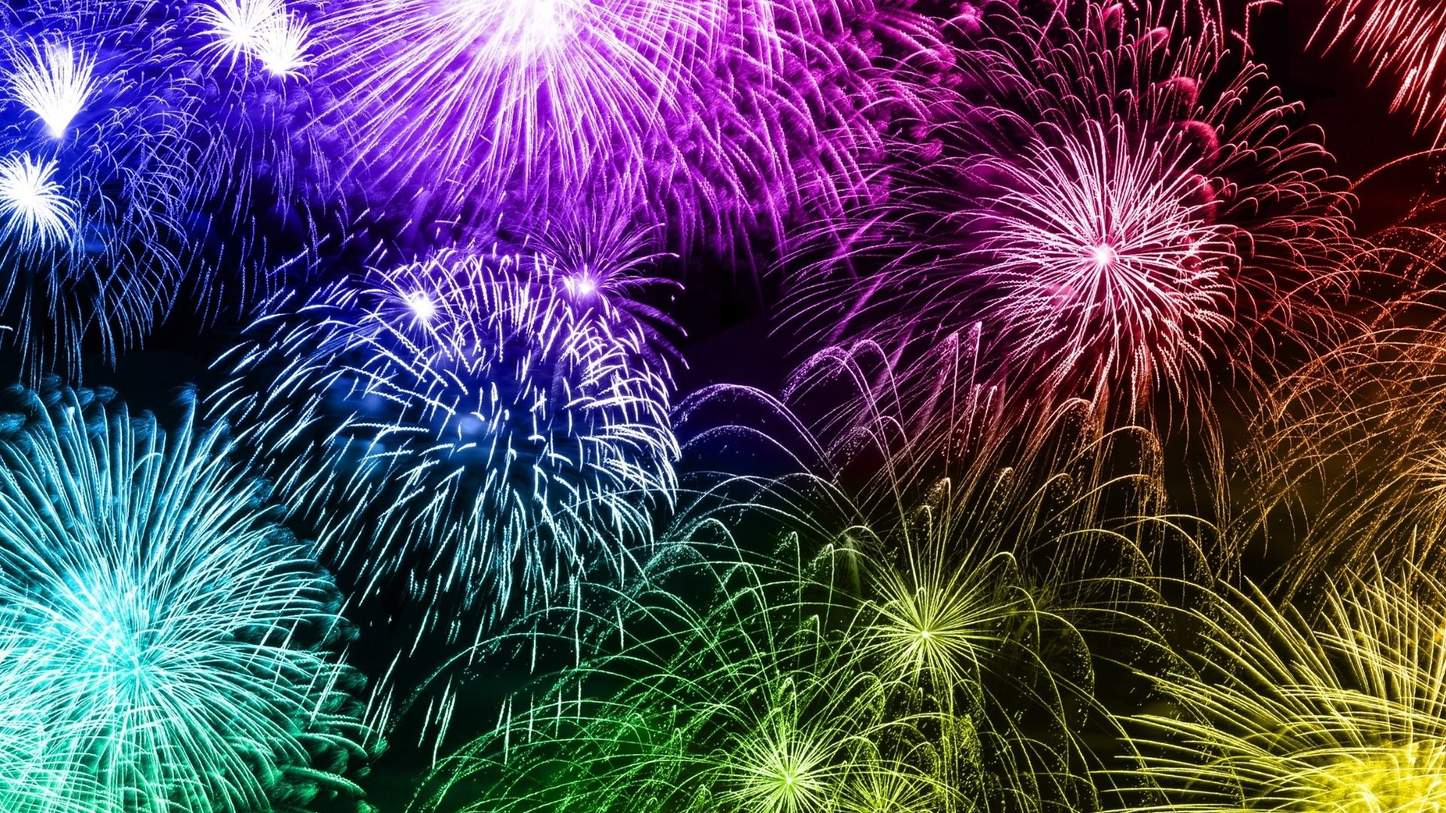
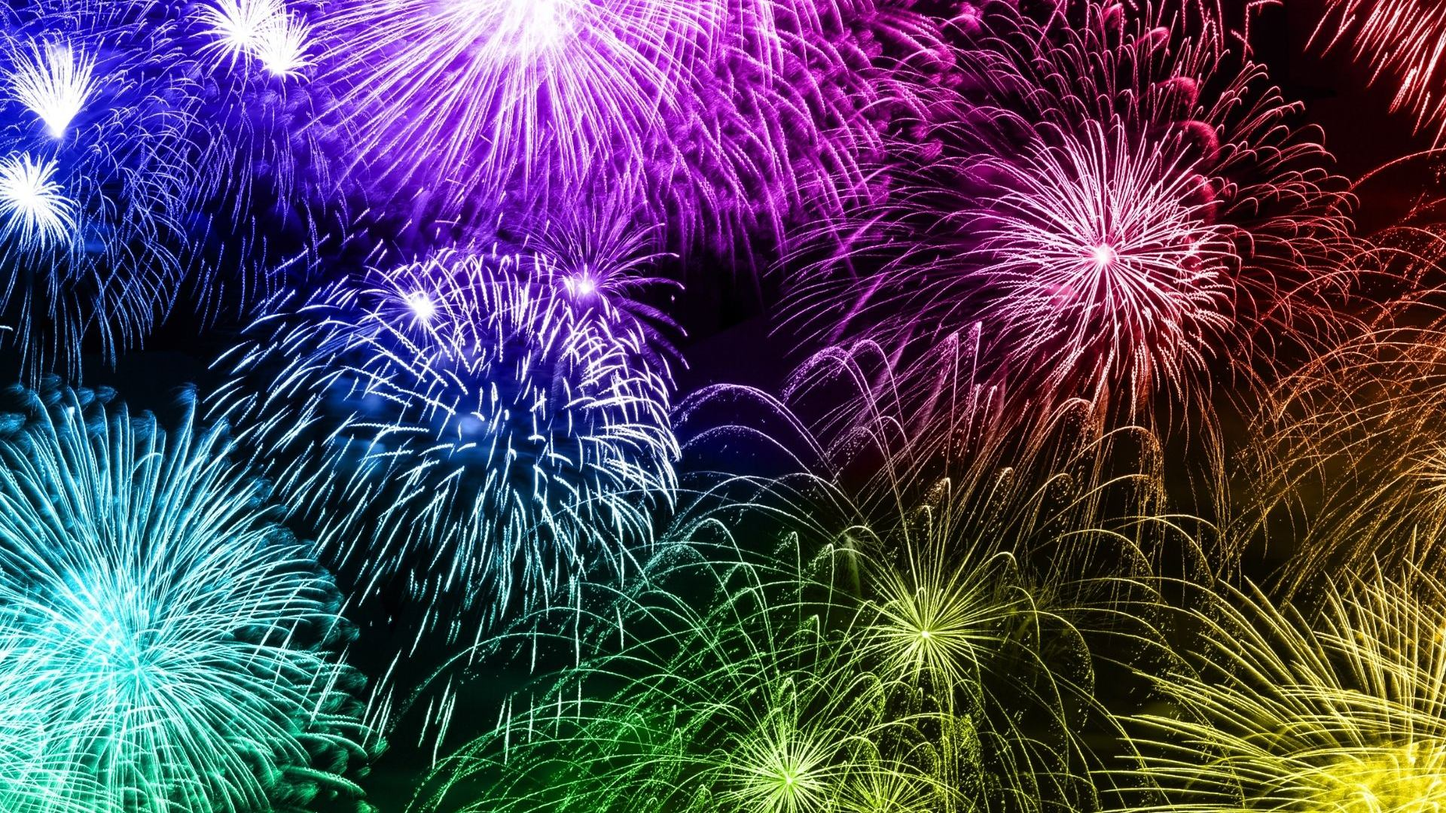
Alltagstipps-Bilder: Thumbnails für Kacheln, Hero-Rekompression
Problem: Hub-Page hat 7 Heroes geladen (=2.9 MB), pro Detail-Seite
1 Hero + 3 weitere Heroes als "Weiterlesen"-Kacheln (~1.6 MB).
Heroes wurden für Kacheln in 4:3-Boxen mit object-fit:cover gestopft,
hatten aber 1920px Auflösung — Verschwendung. Plus silvester (875KB)
und winter (783KB) waren bei q=88 statt q=82 zu groß geraten.

Fix:
- tools/generate-thumbs.ps1 — generiert pro Hero ein thumb-<slug>.jpg
  bei 800px Breite, q=80. mtime-basiert idempotent (rebaut nur wenn
  Source neuer). Ergebnis: 51-148 KB pro Thumb.
- swap-card-svgs.ps1 verlinkt Kacheln auf thumbs statt heroes.
- crop-hero.ps1 default-Quality 88 → 82 (matched resize-assets.ps1).
- hero-silvester und hero-winter neu komprimiert (875→670 KB bzw.
  783→320 KB).
- post-import-fixes.sh führt generate-thumbs vor swap-card-svgs aus.

Payload-Bilanz:
  Hub-Page: 2927 KB → 515 KB Thumbs (-82%)
  Detail-Page: ~1600 KB → ~250-700 KB Hero + ~150 KB Thumbs (-50-75%)

Heroes bleiben bei 1920px für die eigentliche Header-Anzeige.

diff --git a/alltagstipps/index.html b/alltagstipps/index.html
@@ -332,7 +332,7 @@
     <a class="card" href="welpenzeit/">
       <div class="card-img-wrap">
         <span class="card-num">01</span>
-        <img class="card-img" src="../assets/offer-welpenkurs.jpg" alt="Welpe schl&auml;ft in einem Kissen" loading="lazy">
+        <img class="card-img" src="../assets/thumb-welpenzeit.jpg" alt="Welpe schl&auml;ft in einem Kissen" loading="lazy">
       </div>
       <div class="card-body">
         <p class="card-eyebrow">Die ersten Wochen</p>
@@ -348,7 +348,7 @@
     <a class="card" href="silvester/">
       <div class="card-img-wrap">
         <span class="card-num">02</span>
-        <img class="card-img" src="../assets/hero-silvester.jpg" alt="Ruhige Stimmung am Silvesterabend" loading="lazy">
+        <img class="card-img" src="../assets/thumb-silvester.jpg" alt="Ruhige Stimmung am Silvesterabend" loading="lazy">
       </div>
       <div class="card-body">
         <p class="card-eyebrow">Stress-Management</p>
@@ -364,7 +364,7 @@
     <a class="card" href="urlaub/">
       <div class="card-img-wrap">
         <span class="card-num">03</span>
-        <img class="card-img" src="../assets/hero-urlaub.jpg" alt="Mit Hund auf Reisen" loading="lazy">
+        <img class="card-img" src="../assets/thumb-urlaub.jpg" alt="Mit Hund auf Reisen" loading="lazy">
       </div>
       <div class="card-body">
         <p class="card-eyebrow">Reisen mit Hund</p>
@@ -380,7 +380,7 @@
     <a class="card" href="winter/">
       <div class="card-img-wrap">
         <span class="card-num">04</span>
-        <img class="card-img" src="../assets/hero-winter.jpg" alt="Hund im verschneiten Wald" loading="lazy">
+        <img class="card-img" src="../assets/thumb-winter.jpg" alt="Hund im verschneiten Wald" loading="lazy">
       </div>
       <div class="card-body">
         <p class="card-eyebrow">Kalte Jahreszeit</p>
@@ -396,7 +396,7 @@
     <a class="card" href="alleinbleiben/">
       <div class="card-img-wrap">
         <span class="card-num">05</span>
-        <img class="card-img" src="../assets/hero-alleinbleiben.jpg" alt="Beagle schaut allein aus dem Fenster" loading="lazy">
+        <img class="card-img" src="../assets/thumb-alleinbleiben.jpg" alt="Beagle schaut allein aus dem Fenster" loading="lazy">
       </div>
       <div class="card-body">
         <p class="card-eyebrow">Schritt für Schritt</p>
@@ -412,7 +412,7 @@
     <a class="card" href="tierphysiotherapie/">
       <div class="card-img-wrap">
         <span class="card-num">06</span>
-        <img class="card-img" src="../assets/hero-tierphysiotherapie.jpg" alt="Hund auf Balance-Kissen in der Physio" loading="lazy">
+        <img class="card-img" src="../assets/thumb-tierphysiotherapie.jpg" alt="Hund auf Balance-Kissen in der Physio" loading="lazy">
       </div>
       <div class="card-body">
         <p class="card-eyebrow">Gesundheit &amp; Bewegung</p>
@@ -428,7 +428,7 @@
     <a class="card" href="ernaehrung/">
       <div class="card-img-wrap">
         <span class="card-num">07</span>
-        <img class="card-img" src="../assets/hero-ernaehrung.jpg" alt="Labrador mit Futternapf" loading="lazy">
+        <img class="card-img" src="../assets/thumb-ernaehrung.jpg" alt="Labrador mit Futternapf" loading="lazy">
       </div>
       <div class="card-body">
         <p class="card-eyebrow">Was kommt in den Napf?</p>

diff --git a/alltagstipps/silvester/index.html b/alltagstipps/silvester/index.html
@@ -304,7 +304,7 @@
 
   <div class="more-grid">
     <a class="more-card" href="../alleinbleiben/">
-      <div class="more-card-img"><img src="../../assets/hero-alleinbleiben.jpg" alt="Beagle schaut allein aus dem Fenster" loading="lazy"></div>
+      <div class="more-card-img"><img src="../../assets/thumb-alleinbleiben.jpg" alt="Beagle schaut allein aus dem Fenster" loading="lazy"></div>
       <div class="more-card-body">
         <p class="more-card-eyebrow">Schritt für Schritt</p>
         <h3 class="more-card-title">Alleinbleiben lernen</h3>
@@ -313,7 +313,7 @@
     </a>
 
     <a class="more-card" href="../tierphysiotherapie/">
-      <div class="more-card-img"><img src="../../assets/hero-tierphysiotherapie.jpg" alt="Hund auf Balance-Kissen in der Physio" loading="lazy"></div>
+      <div class="more-card-img"><img src="../../assets/thumb-tierphysiotherapie.jpg" alt="Hund auf Balance-Kissen in der Physio" loading="lazy"></div>
       <div class="more-card-body">
         <p class="more-card-eyebrow">Gesundheit & Bewegung</p>
         <h3 class="more-card-title">Tierphysiotherapie verstehen</h3>
@@ -322,7 +322,7 @@
     </a>
 
     <a class="more-card" href="../welpenzeit/">
-      <div class="more-card-img"><img src="../../assets/offer-welpenkurs.jpg" alt="Welpe schl&auml;ft in einem Kissen" loading="lazy"></div>
+      <div class="more-card-img"><img src="../../assets/thumb-welpenzeit.jpg" alt="Welpe schl&auml;ft in einem Kissen" loading="lazy"></div>
       <div class="more-card-body">
         <p class="more-card-eyebrow">Die ersten Wochen</p>
         <h3 class="more-card-title">Welpenzeit gestalten</h3>

diff --git a/alltagstipps/alleinbleiben/index.html b/alltagstipps/alleinbleiben/index.html
@@ -303,7 +303,7 @@
 
   <div class="more-grid">
     <a class="more-card" href="../welpenzeit/">
-      <div class="more-card-img"><img src="../../assets/offer-welpenkurs.jpg" alt="Welpe schl&auml;ft in einem Kissen" loading="lazy"></div>
+      <div class="more-card-img"><img src="../../assets/thumb-welpenzeit.jpg" alt="Welpe schl&auml;ft in einem Kissen" loading="lazy"></div>
       <div class="more-card-body">
         <p class="more-card-eyebrow">Die ersten Wochen</p>
         <h3 class="more-card-title">Welpenzeit gestalten</h3>
@@ -312,7 +312,7 @@
     </a>
 
     <a class="more-card" href="../silvester/">
-      <div class="more-card-img"><img src="../../assets/hero-silvester.jpg" alt="Ruhige Stimmung am Silvesterabend" loading="lazy"></div>
+      <div class="more-card-img"><img src="../../assets/thumb-silvester.jpg" alt="Ruhige Stimmung am Silvesterabend" loading="lazy"></div>
       <div class="more-card-body">
         <p class="more-card-eyebrow">Stress-Management</p>
         <h3 class="more-card-title">Silvester ohne Stress</h3>
@@ -321,7 +321,7 @@
     </a>
 
     <a class="more-card" href="../tierphysiotherapie/">
-      <div class="more-card-img"><img src="../../assets/hero-tierphysiotherapie.jpg" alt="Hund auf Balance-Kissen in der Physio" loading="lazy"></div>
+      <div class="more-card-img"><img src="../../assets/thumb-tierphysiotherapie.jpg" alt="Hund auf Balance-Kissen in der Physio" loading="lazy"></div>
       <div class="more-card-body">
         <p class="more-card-eyebrow">Gesundheit & Bewegung</p>
         <h3 class="more-card-title">Tierphysiotherapie verstehen</h3>

diff --git a/alltagstipps/ernaehrung/index.html b/alltagstipps/ernaehrung/index.html
@@ -308,7 +308,7 @@
 
   <div class="more-grid">
     <a class="more-card" href="../winter/">
-      <div class="more-card-img"><img src="../../assets/hero-winter.jpg" alt="Hund im verschneiten Wald" loading="lazy"></div>
+      <div class="more-card-img"><img src="../../assets/thumb-winter.jpg" alt="Hund im verschneiten Wald" loading="lazy"></div>
       <div class="more-card-body">
         <p class="more-card-eyebrow">Kalte Jahreszeit</p>
         <h3 class="more-card-title">Winter mit Hund</h3>
@@ -317,7 +317,7 @@
     </a>
 
     <a class="more-card" href="../tierphysiotherapie/">
-      <div class="more-card-img"><img src="../../assets/hero-tierphysiotherapie.jpg" alt="Hund auf Balance-Kissen in der Physio" loading="lazy"></div>
+      <div class="more-card-img"><img src="../../assets/thumb-tierphysiotherapie.jpg" alt="Hund auf Balance-Kissen in der Physio" loading="lazy"></div>
       <div class="more-card-body">
         <p class="more-card-eyebrow">Gesundheit & Bewegung</p>
         <h3 class="more-card-title">Tierphysiotherapie verstehen</h3>
@@ -326,7 +326,7 @@
     </a>
 
     <a class="more-card" href="../welpenzeit/">
-      <div class="more-card-img"><img src="../../assets/offer-welpenkurs.jpg" alt="Welpe schl&auml;ft in einem Kissen" loading="lazy"></div>
+      <div class="more-card-img"><img src="../../assets/thumb-welpenzeit.jpg" alt="Welpe schl&auml;ft in einem Kissen" loading="lazy"></div>
       <div class="more-card-body">
         <p class="more-card-eyebrow">Die ersten Wochen</p>
         <h3 class="more-card-title">Welpenzeit gestalten</h3>

diff --git a/alltagstipps/tierphysiotherapie/index.html b/alltagstipps/tierphysiotherapie/index.html
@@ -308,7 +308,7 @@
 
   <div class="more-grid">
     <a class="more-card" href="../welpenzeit/">
-      <div class="more-card-img"><img src="../../assets/offer-welpenkurs.jpg" alt="Welpe schl&auml;ft in einem Kissen" loading="lazy"></div>
+      <div class="more-card-img"><img src="../../assets/thumb-welpenzeit.jpg" alt="Welpe schl&auml;ft in einem Kissen" loading="lazy"></div>
       <div class="more-card-body">
         <p class="more-card-eyebrow">Die ersten Wochen</p>
         <h3 class="more-card-title">Welpenzeit gestalten</h3>
@@ -317,7 +317,7 @@
     </a>
 
     <a class="more-card" href="../alleinbleiben/">
-      <div class="more-card-img"><img src="../../assets/hero-alleinbleiben.jpg" alt="Beagle schaut allein aus dem Fenster" loading="lazy"></div>
+      <div class="more-card-img"><img src="../../assets/thumb-alleinbleiben.jpg" alt="Beagle schaut allein aus dem Fenster" loading="lazy"></div>
       <div class="more-card-body">
         <p class="more-card-eyebrow">Schritt für Schritt</p>
         <h3 class="more-card-title">Alleinbleiben lernen</h3>
@@ -326,7 +326,7 @@
     </a>
 
     <a class="more-card" href="../ernaehrung/">
-      <div class="more-card-img"><img src="../../assets/hero-ernaehrung.jpg" alt="Labrador mit Futternapf" loading="lazy"></div>
+      <div class="more-card-img"><img src="../../assets/thumb-ernaehrung.jpg" alt="Labrador mit Futternapf" loading="lazy"></div>
       <div class="more-card-body">
         <p class="more-card-eyebrow">Was kommt in den Napf?</p>
         <h3 class="more-card-title">Hundeernährung Grundlagen</h3>

diff --git a/alltagstipps/winter/index.html b/alltagstipps/winter/index.html
@@ -303,7 +303,7 @@
 
   <div class="more-grid">
     <a class="more-card" href="../urlaub/">
-      <div class="more-card-img"><img src="../../assets/hero-urlaub.jpg" alt="Mit Hund auf Reisen" loading="lazy"></div>
+      <div class="more-card-img"><img src="../../assets/thumb-urlaub.jpg" alt="Mit Hund auf Reisen" loading="lazy"></div>
       <div class="more-card-body">
         <p class="more-card-eyebrow">Reisen mit Hund</p>
         <h3 class="more-card-title">Mit Hund in den Urlaub</h3>
@@ -312,7 +312,7 @@
     </a>
 
     <a class="more-card" href="../tierphysiotherapie/">
-      <div class="more-card-img"><img src="../../assets/hero-tierphysiotherapie.jpg" alt="Hund auf Balance-Kissen in der Physio" loading="lazy"></div>
+      <div class="more-card-img"><img src="../../assets/thumb-tierphysiotherapie.jpg" alt="Hund auf Balance-Kissen in der Physio" loading="lazy"></div>
       <div class="more-card-body">
         <p class="more-card-eyebrow">Gesundheit & Bewegung</p>
         <h3 class="more-card-title">Tierphysiotherapie verstehen</h3>
@@ -321,7 +321,7 @@
     </a>
 
     <a class="more-card" href="../ernaehrung/">
-      <div class="more-card-img"><img src="../../assets/hero-ernaehrung.jpg" alt="Labrador mit Futternapf" loading="lazy"></div>
+      <div class="more-card-img"><img src="../../assets/thumb-ernaehrung.jpg" alt="Labrador mit Futternapf" loading="lazy"></div>
       <div class="more-card-body">
         <p class="more-card-eyebrow">Was kommt in den Napf?</p>
         <h3 class="more-card-title">Hundeernährung Grundlagen</h3>

diff --git a/alltagstipps/urlaub/index.html b/alltagstipps/urlaub/index.html
@@ -318,7 +318,7 @@
 
   <div class="more-grid">
     <a class="more-card" href="../winter/">
-      <div class="more-card-img"><img src="../../assets/hero-winter.jpg" alt="Hund im verschneiten Wald" loading="lazy"></div>
+      <div class="more-card-img"><img src="../../assets/thumb-winter.jpg" alt="Hund im verschneiten Wald" loading="lazy"></div>
       <div class="more-card-body">
         <p class="more-card-eyebrow">Kalte Jahreszeit</p>
         <h3 class="more-card-title">Winter mit Hund</h3>
@@ -327,7 +327,7 @@
     </a>
 
     <a class="more-card" href="../silvester/">
-      <div class="more-card-img"><img src="../../assets/hero-silvester.jpg" alt="Ruhige Stimmung am Silvesterabend" loading="lazy"></div>
+      <div class="more-card-img"><img src="../../assets/thumb-silvester.jpg" alt="Ruhige Stimmung am Silvesterabend" loading="lazy"></div>
       <div class="more-card-body">
         <p class="more-card-eyebrow">Stress-Management</p>
         <h3 class="more-card-title">Silvester ohne Stress</h3>
@@ -336,7 +336,7 @@
     </a>
 
     <a class="more-card" href="../welpenzeit/">
-      <div class="more-card-img"><img src="../../assets/offer-welpenkurs.jpg" alt="Welpe schl&auml;ft in einem Kissen" loading="lazy"></div>
+      <div class="more-card-img"><img src="../../assets/thumb-welpenzeit.jpg" alt="Welpe schl&auml;ft in einem Kissen" loading="lazy"></div>
       <div class="more-card-body">
         <p class="more-card-eyebrow">Die ersten Wochen</p>
         <h3 class="more-card-title">Welpenzeit gestalten</h3>

diff --git a/alltagstipps/welpenzeit/index.html b/alltagstipps/welpenzeit/index.html
@@ -584,7 +584,7 @@
 
     <a class="more-card" href="../silvester/">
       <div class="more-card-img">
-        <img src="../../assets/hero-silvester.jpg" alt="Ruhige Stimmung am Silvesterabend" loading="lazy">
+        <img src="../../assets/thumb-silvester.jpg" alt="Ruhige Stimmung am Silvesterabend" loading="lazy">
       </div>
       <div class="more-card-body">
         <p class="more-card-eyebrow">Stress-Management</p>
@@ -595,7 +595,7 @@
 
     <a class="more-card" href="../alleinbleiben/">
       <div class="more-card-img">
-        <img src="../../assets/hero-alleinbleiben.jpg" alt="Beagle schaut allein aus dem Fenster" loading="lazy">
+        <img src="../../assets/thumb-alleinbleiben.jpg" alt="Beagle schaut allein aus dem Fenster" loading="lazy">
       </div>
       <div class="more-card-body">
         <p class="more-card-eyebrow">Schritt für Schritt</p>
@@ -606,7 +606,7 @@
 
     <a class="more-card" href="../ernaehrung/">
       <div class="more-card-img">
-        <img src="../../assets/hero-ernaehrung.jpg" alt="Labrador mit Futternapf" loading="lazy">
+        <img src="../../assets/thumb-ernaehrung.jpg" alt="Labrador mit Futternapf" loading="lazy">
       </div>
       <div class="more-card-body">
         <p class="more-card-eyebrow">Was kommt in den Napf?</p>
